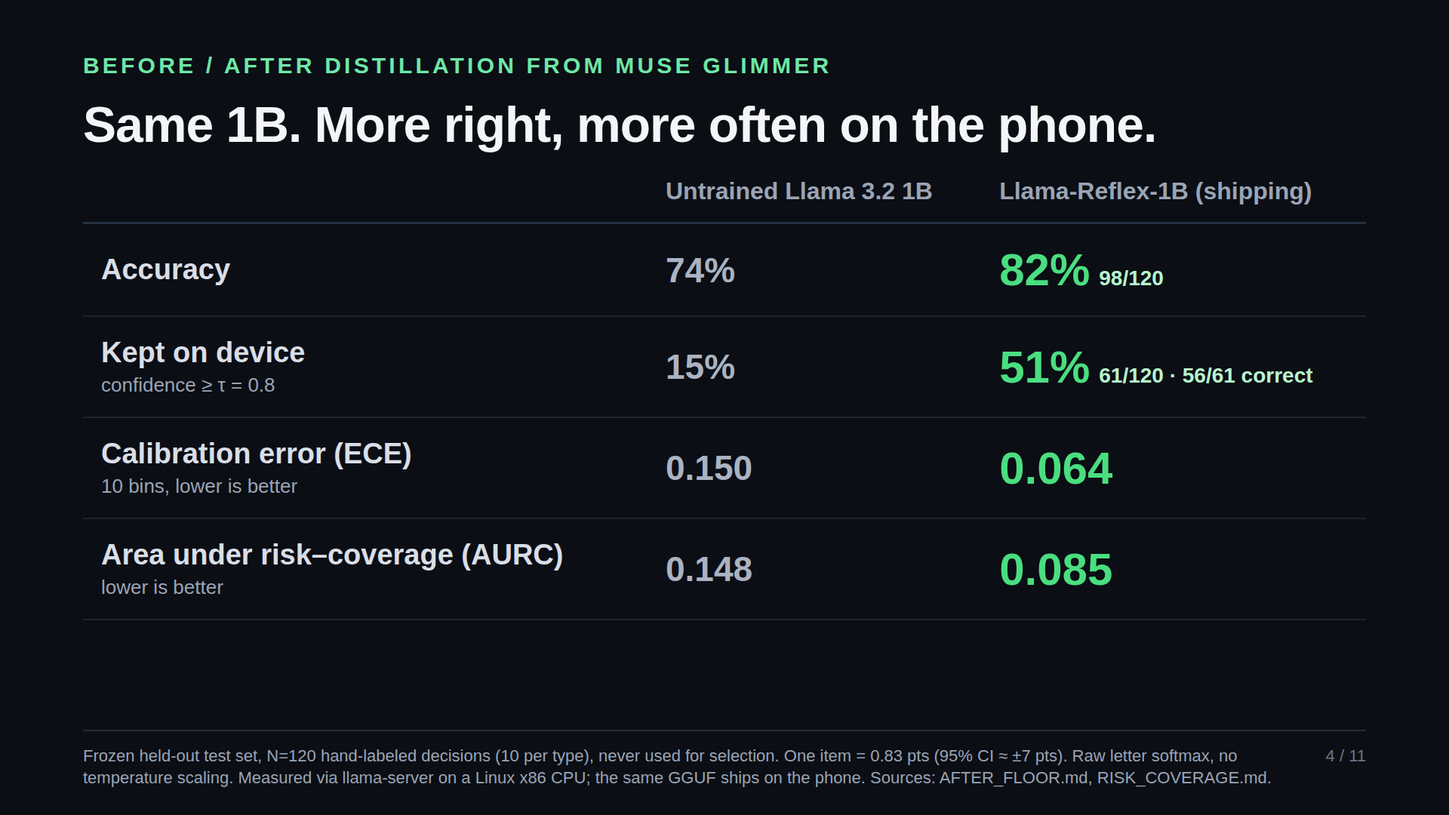
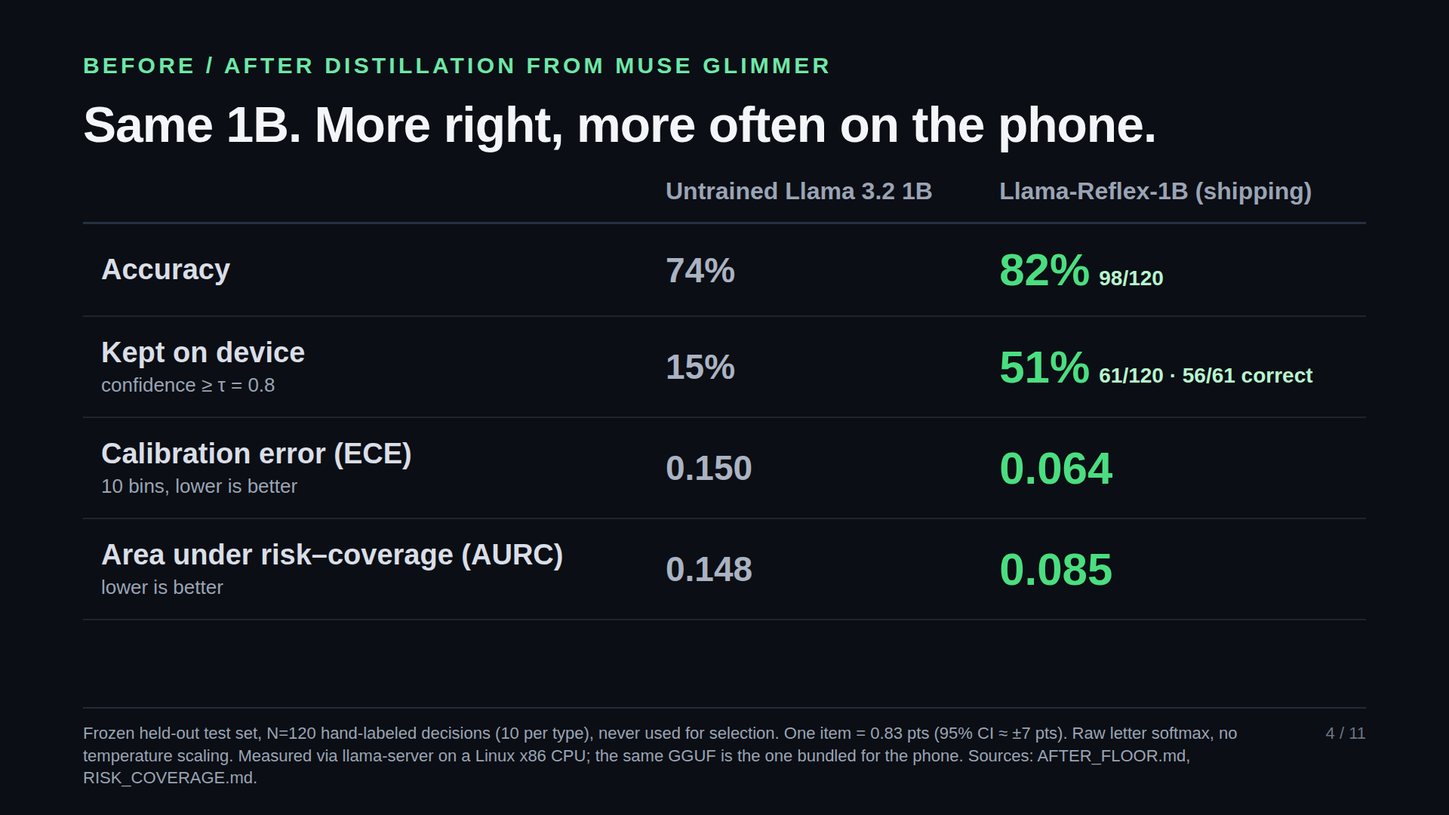
docs(demo): canonical cut and corrected claims
Update the 3:00 storyboard as the canonical cut, replace the Instagram skills beat with the optional Apple TV handoff, and correct skill, round 2, privacy, and handoff claims. Re-render all 11 slides at 1920x1080.

Changed region(s): [[0.0625, 0.8861, 0.875, 0.9778], [0.9062, 0.8861, 0.9375, 0.9472]]

diff --git a/docs/demo/slides.html b/docs/demo/slides.html
@@ -7,8 +7,8 @@
   Pocket Glimmer demo slides. Self-contained: inline CSS, no external fonts, no JS.
   11 slides, 1920x1080 each, <section id="slideN">. Cmd+P -> Save as PDF gives one page per slide.
   Every number here is sourced from README.md, docs/research/JUDGE_BRIEF.md, LEDGER.md §6,
-  eval/results/{AFTER_FLOOR,PER_TYPE_TAU090,RISK_COVERAGE,OOS_STRESS,REPRO_NOV4,PERM_AVG,QUANT_IDENTITY,SPARK_TEACHER}.md,
-  eval/skills/SKILL_PROBE.md, docs/SKILLS.md, docs/META_MULTIMODAL.md. PNG renders: docs/img/slide_01.png ... slide_11.png
+  eval/results/{AFTER_FLOOR,PER_TYPE_TAU090,RISK_COVERAGE,OOS_STRESS,REPRO_NOV4,PERM_AVG,QUANT_IDENTITY,SPARK_TEACHER,ROUND2}.md,
+  eval/skills/SKILL_PROBE.md, docs/SKILLS.md, docs/META_MULTIMODAL.md, docs/OPEN_WEIGHTS_SYSTEM2.md. PNG renders: docs/img/slide_01.png ... slide_11.png
   (regenerate with docs/demo/render_slides.sh).
 -->
 <style>
@@ -118,7 +118,7 @@ td.a small{font-size:28px;color:#b7f5cf;font-weight:600;margin-left:12px}
 <section id="slide1">
   <div class="kicker">Meta Global AI Hackathon 2026 · Build for Your World</div>
   <h1>Pocket Glimmer</h1>
-  <div class="sub">A 1B Meta model on an iPhone that knows when it doesn't know.</div>
+  <div class="sub">A 1B Meta model built for iPhone that knows when it doesn't know.</div>
   <div class="bars">
     <div class="taul">τ</div>
     <div class="tau"></div>
@@ -139,15 +139,16 @@ td.a small{font-size:28px;color:#b7f5cf;font-weight:600;margin-left:12px}
     <div class="col" style="flex:1.1;gap:34px">
       <p><span class="white" style="font-weight:800">Habib</span> · CS student, Hunter College · lives in the Bronx. The commute is on the subway, mostly with no signal.</p>
       <p><span class="green" style="font-weight:800">Memory stays on the phone</span> (on-device SQLite: facts, people, corrections).</p>
-      <p><span class="blue" style="font-weight:800">The cloud only ever sees masked text</span>, and only when the model is unsure.</p>
+      <p><span class="blue" style="font-weight:800">Typed escalations send masked text only</span>, and only when the model is unsure.</p>
     </div>
     <div class="card" style="flex:.9;border-color:#3b4a63">
-      <div style="font-size:26px;letter-spacing:.12em;text-transform:uppercase;font-weight:800;color:#7cb4ff;margin-bottom:18px">What left the phone (illustration)</div>
+      <div style="font-size:26px;letter-spacing:.12em;text-transform:uppercase;font-weight:800;color:#7cb4ff;margin-bottom:18px">What left the phone (typed escalation, illustration)</div>
       <div class="mono" style="font-size:31px;line-height:1.45;color:#e7ecf3">Plan my week around Professor <span class="orange">[PERSON_1]</span>'s CSCI 335 final and my calc midterm.</div>
       <div style="margin-top:24px;font-size:27px;line-height:1.4;color:#9aa4b5">Names from Contacts and memory, emails, phones, addresses and card numbers are masked first and restored on the phone. An escalation carries the masked request plus the masked memory lines retrieved for it. The app shows the exact text it sent.</div>
     </div>
   </div>
-  <div class="foot"><span>Escalation target: Muse Spark 1.3, Meta Model API, Standard mode only. Source: README "How it works".</span><span class="n">2 / 11</span></div>
+  <p class="muted" style="font-size:27px;margin-top:30px;line-height:1.4">Voice audio uploads to Muse Voice Transcribe before any on-device check. A permitted photo leaves as an image with EXIF/GPS stripped; the question text is masked, the pixels are not redacted. The photo sensitivity gate is heuristic, not a guarantee.</p>
+  <div class="foot"><span>Escalation target for typed text: Muse Spark 1.3, Meta Model API, Standard mode only. Source: README "How it works", docs/META_MULTIMODAL.md.</span><span class="n">2 / 11</span></div>
 </section>
 
 <!-- 3 -->
@@ -188,7 +189,7 @@ td.a small{font-size:28px;color:#b7f5cf;font-weight:600;margin-left:12px}
     <tr><td class="m">Calibration error (ECE)<small>10 bins, lower is better</small></td><td class="b">0.150</td><td class="a">0.064</td></tr>
     <tr><td class="m">Area under risk–coverage (AURC)<small>lower is better</small></td><td class="b">0.148</td><td class="a">0.085</td></tr>
   </table>
-  <div class="foot"><span>Frozen held-out test set, N=120 hand-labeled decisions (10 per type), never used for selection. One item = 0.83 pts (95% CI ≈ ±7 pts). Raw letter softmax, no temperature scaling. Measured via llama-server on a Linux x86 CPU; the same GGUF ships on the phone. Sources: AFTER_FLOOR.md, RISK_COVERAGE.md.</span><span class="n">4 / 11</span></div>
+  <div class="foot"><span>Frozen held-out test set, N=120 hand-labeled decisions (10 per type), never used for selection. One item = 0.83 pts (95% CI ≈ ±7 pts). Raw letter softmax, no temperature scaling. Measured via llama-server on a Linux x86 CPU; the same GGUF is the one bundled for the phone. Sources: AFTER_FLOOR.md, RISK_COVERAGE.md.</span><span class="n">4 / 11</span></div>
 </section>
 
 <!-- 5 -->
@@ -229,16 +230,16 @@ td.a small{font-size:28px;color:#b7f5cf;font-weight:600;margin-left:12px}
 <!-- 7 -->
 <section id="slide7">
   <div class="kicker">Built with Llama · every model is Meta's</div>
-  <h2 style="margin-bottom:24px">Four Meta models, four jobs.</h2>
+  <h2 style="margin-bottom:24px">Meta models, distinct jobs.</h2>
   <div class="models">
     <div class="card" style="border-color:#2f6b49"><div class="role green">Student · on the phone</div><h3>Llama 3.2 1B → Llama-Reflex-1B</h3><p>12 typed decisions, Q4_K_M GGUF (808 MB), llama.cpp + Metal. Llama 3.2 Community License.</p></div>
     <div class="card"><div class="role" style="color:#e9c46a">Teacher · local</div><h3>Muse Glimmer 30B</h3><p>Run locally (IQ2_M). Its option-letter probabilities are the soft labels (892 labels). Apache-2.0 open weights.</p></div>
-    <div class="card" style="border-color:#2c4f80"><div class="role blue">Escalation · cloud</div><h3>Muse Spark 1.3</h3><p>Only when the phone is unsure. Meta Model API, Standard mode only, behind a privacy scrubber.</p></div>
-    <div class="card"><div class="role" style="color:#aab3c2">Evaluated · rejected</div><h3>Muse Spark Open</h3><p>As teacher: labels matched gold 178/180, but the 1B it taught was overconfident (cal180 bound 13.7% vs 10.2%).</p></div>
+    <div class="card" style="border-color:#2c4f80"><div class="role blue">Escalation · cloud</div><h3>Muse Spark 1.3</h3><p>Default cloud escalation when the phone is unsure. Meta Model API, Standard mode only, behind a privacy scrubber.</p></div>
+    <div class="card" style="border-color:#3b4a63"><div class="role" style="color:#aab3c2">Optional · self-hosted cloud</div><h3>Muse Glimmer 30B on Modal</h3><p>H100, vLLM 0.33, bf16, scale-to-zero. Saved Swift smoke: 2.8 s cloud probe, two prompts. Cloud only, never on the phone; no current-liveness claim.</p></div>
   </div>
   <div class="lineage">Meta built Glimmer by logit-distilling Muse Spark (arXiv 2610.24628); we add one more hop, onto the phone:<br><span class="mono" style="font-size:31px;color:#6ee7a8">Muse Spark → Muse Glimmer 30B → Llama-Reflex-1B</span></div>
-  <div class="senses"><span class="blue" style="font-weight:800">System-2 senses (online only, same gate):</span> Muse Voice Transcribe for speech, Muse Spark 1.3 vision and SAM 3.1 for the camera. Each call passes the on-device sensitivity decision, masking and Standard mode. API calls verified live Nov 4; the iOS mic/camera UI is not yet verified on a device.</div>
-  <div class="foot"><span>Sources: README "Meta stack", JUDGE_BRIEF §3, SPARK_TEACHER.md, ARXIV_SCAN_NOV4.md, META_MULTIMODAL.md.</span><span class="n">7 / 11</span></div>
+  <div class="senses"><span class="blue" style="font-weight:800">System-2 senses (online only):</span> Muse Voice Transcribe for speech (audio uploads before any sensitivity check; the transcript then follows the typed-text path), Muse Spark 1.3 vision and SAM 3.1 for the camera (permitted photos leave as images; text is masked, pixels are not). Meta calls verified live Nov 4; the iOS mic/camera UI is unverified on a device.</div>
+  <div class="foot"><span>Sources: README "Meta stack", JUDGE_BRIEF §3, SPARK_TEACHER.md, ARXIV_SCAN_NOV4.md, META_MULTIMODAL.md, OPEN_WEIGHTS_SYSTEM2.md. Spark Open teacher rejected (13.7% vs 10.2% cal180 bound); Round 2 finished and rejected.</span><span class="n">7 / 11</span></div>
 </section>
 
 <!-- 8 -->
@@ -253,29 +254,29 @@ td.a small{font-size:28px;color:#b7f5cf;font-weight:600;margin-left:12px}
     <div class="card"><h3>Quant ladder</h3><p>f16 14.5%, Q8_0 13.9%, Q3_K_M 13.9%, Q2_K 30.4%. Nothing beat Q4_K_M on cal180.</p></div>
     <div class="card"><h3>Option-order averaging</h3><p>Ranks better, but under-confident: ECE 0.072–0.101 vs ≤0.056, at 2–3× latency. Did not ship.</p></div>
   </div>
-  <div class="card r2" style="margin-top:24px;padding:22px 30px;border:3px dashed #7cb4ff;background:#0f1a2b"><p style="font-size:34px"><span class="blue" style="font-weight:800">Round 2 (Nov 4): see eval/results/ROUND2.md</span> <span class="muted">· same cal180 gate; the shipping model changes only if a variant wins.</span></p></div>
-  <div class="foot"><span>All selection on the calibration split (N=180); bounds are LTT tightest, δ = 0.1. Box CPU, not iPhone. Sources: README gate 1, LEDGER §6 and §12, AFTER_FLOOR_EP2.md, AFTER_FLOOR_NV2.md, SPARK_TEACHER.md, QUANT_IDENTITY.md, PERM_AVG.md.</span><span class="n">8 / 11</span></div>
+  <div class="card r2" style="margin-top:24px;padding:22px 30px;border:3px dashed #7cb4ff;background:#0f1a2b"><p style="font-size:34px"><span class="blue" style="font-weight:800">Round 2 (Nov 4): finished and rejected.</span> <span class="muted">No variant cleared every gate run. ep1, Glimmer-only, still ships.</span></p></div>
+  <div class="foot"><span>All selection on the calibration split (N=180); bounds are LTT tightest, δ = 0.1. Box CPU, not iPhone. Sources: README gate 1, LEDGER §6 and §12, AFTER_FLOOR_EP2.md, AFTER_FLOOR_NV2.md, SPARK_TEACHER.md, QUANT_IDENTITY.md, PERM_AVG.md, ROUND2.md.</span><span class="n">8 / 11</span></div>
 </section>
 
 <!-- 9 -->
 <section id="slide9">
   <div class="kicker">Open-world actions · skills layer</div>
-  <h2 style="margin-bottom:34px">35 phone skills. One dynamic decision. No retraining.</h2>
+  <h2 style="margin-bottom:34px">36 phone skills. One dynamic decision. No retraining.</h2>
   <div class="row" style="gap:50px;align-items:flex-start">
     <div class="steps" style="flex:1.35">
       <div class="step"><div class="k">You say</div><div class="v mono" style="font-size:30px">"DM Sam on Instagram: congrats"</div></div>
-      <div class="step"><div class="k">Retrieve</div><div class="v">top 7 of 35 skills, on device (BM25 + trigram embedder)</div></div>
+      <div class="step"><div class="k">Retrieve</div><div class="v">top 7 of 36 skills, on device (BM25 + trigram embedder)</div></div>
       <div class="step"><div class="k">skillPick</div><div class="v">the same 1B, one forward pass, confidence vs τ → <span class="mono">instagram_dm</span></div></div>
       <div class="step"><div class="k">Confirm</div><div class="v">hard rule: every message/social skill asks first</div></div>
       <div class="step"><div class="k">Act</div><div class="v">opens Instagram's own DM link, message copied to clipboard</div></div>
     </div>
     <div class="col" style="flex:1;gap:22px">
-      <div class="card"><div class="big green" style="font-size:96px">23/25</div><p style="font-size:32px;margin-top:8px">right skill at argmax (25/25 in the retrieved top 7)</p></div>
-      <div class="card"><div class="big green" style="font-size:96px">13/14</div><p style="font-size:32px;margin-top:8px">correct when kept on device: 14/25 kept at τ = 0.90</p></div>
+      <div class="card"><div class="big green" style="font-size:96px">25/27</div><p style="font-size:32px;margin-top:8px">right skill at argmax (27/27 in the retrieved top 7)</p></div>
+      <div class="card"><div class="big green" style="font-size:96px">15/15</div><p style="font-size:32px;margin-top:8px">correct when kept on device: 15/27 kept at τ = 0.90</p></div>
     </div>
   </div>
-  <div class="warn" style="margin-top:30px;font-size:31px">Honest iOS limit: deep link + clipboard + confirm. No app can type or press Send inside Instagram; you paste and tap Send.</div>
-  <div class="foot"><span>N=25 smoke test, one author-written utterance per skill. The shipping model was never trained on skills. Not gold, not covered by the cal180 bound. Box CPU. Sources: SKILL_PROBE.md, SKILLS.md.</span><span class="n">9 / 11</span></div>
+  <div class="warn" style="margin-top:26px;font-size:28px">Honest iOS limit: deep link + clipboard + confirm. No app can type or press Send inside Instagram; you paste and tap Send. Shortcut skills only hand off; the app cannot confirm the Shortcut ran. Full iOS action behavior is unverified on a device.</div>
+  <div class="foot"><span>N=27 author-written smoke test (26 distinct skills; two Apple TV phrasings). The shipping model was never trained on skillPick, and skillPick has no cal180 certificate. Not gold, not covered by the cal180 bound. Box CPU. Sources: SKILL_PROBE.md, SKILLS.md.</span><span class="n">9 / 11</span></div>
 </section>
 
 <!-- 10 -->
@@ -293,13 +294,13 @@ td.a small{font-size:28px;color:#b7f5cf;font-weight:600;margin-left:12px}
     <div class="va">←</div>
     <div class="box"><b>3 · Verdicts back</b>teacher agreement written to the phone's telemetry; merged, deduped against every eval item</div>
   </div>
-  <div class="foot"><span>label_queue.py → verdicts.py → merge_round.py → existing LoRA/GGUF/cal180 chain. selftest.sh passes on the box with the shipping model as stand-in teacher. One distillation round has shipped so far.</span><span class="n">10 / 11</span></div>
+  <div class="foot"><span>label_queue.py → verdicts.py → merge_round.py → existing LoRA/GGUF/cal180 chain. selftest.sh passes on the box with the shipping model as stand-in teacher. One distillation round has shipped; round 2 was rejected at the gate.</span><span class="n">10 / 11</span></div>
 </section>
 
 <!-- 11 -->
 <section id="slide11">
   <div class="kicker">Pocket Glimmer · Built with Llama</div>
-  <div class="close">Open weights on the phone, Meta's cloud only when unsure. <span class="green">It's in my pocket.</span></div>
+  <div class="close">Open weights small enough for a phone. Meta's cloud only when it needs it. <span class="green">That's Pocket Glimmer.</span></div>
   <div class="url mono">github.com/hxbib/pocket-glimmer</div>
   <div class="foot"><span>https://github.com/hxbib/pocket-glimmer · Habib · Hunter College · Bronx</span><span class="n">11 / 11</span></div>
 </section>

diff --git a/docs/demo/slides/slide_07.html b/docs/demo/slides/slide_07.html
@@ -7,8 +7,8 @@
   Pocket Glimmer demo slides. Self-contained: inline CSS, no external fonts, no JS.
   11 slides, 1920x1080 each, <section id="slideN">. Cmd+P -> Save as PDF gives one page per slide.
   Every number here is sourced from README.md, docs/research/JUDGE_BRIEF.md, LEDGER.md §6,
-  eval/results/{AFTER_FLOOR,PER_TYPE_TAU090,RISK_COVERAGE,OOS_STRESS,REPRO_NOV4,PERM_AVG,QUANT_IDENTITY,SPARK_TEACHER}.md,
-  eval/skills/SKILL_PROBE.md, docs/SKILLS.md, docs/META_MULTIMODAL.md. PNG renders: docs/img/slide_01.png ... slide_11.png
+  eval/results/{AFTER_FLOOR,PER_TYPE_TAU090,RISK_COVERAGE,OOS_STRESS,REPRO_NOV4,PERM_AVG,QUANT_IDENTITY,SPARK_TEACHER,ROUND2}.md,
+  eval/skills/SKILL_PROBE.md, docs/SKILLS.md, docs/META_MULTIMODAL.md, docs/OPEN_WEIGHTS_SYSTEM2.md. PNG renders: docs/img/slide_01.png ... slide_11.png
   (regenerate with docs/demo/render_slides.sh).
 -->
 <style>
@@ -115,15 +115,15 @@ td.a small{font-size:28px;color:#b7f5cf;font-weight:600;margin-left:12px}
 <body style="margin:0;overflow:hidden">
 <section id="slide7">
   <div class="kicker">Built with Llama · every model is Meta's</div>
-  <h2 style="margin-bottom:24px">Four Meta models, four jobs.</h2>
+  <h2 style="margin-bottom:24px">Meta models, distinct jobs.</h2>
   <div class="models">
     <div class="card" style="border-color:#2f6b49"><div class="role green">Student · on the phone</div><h3>Llama 3.2 1B → Llama-Reflex-1B</h3><p>12 typed decisions, Q4_K_M GGUF (808 MB), llama.cpp + Metal. Llama 3.2 Community License.</p></div>
     <div class="card"><div class="role" style="color:#e9c46a">Teacher · local</div><h3>Muse Glimmer 30B</h3><p>Run locally (IQ2_M). Its option-letter probabilities are the soft labels (892 labels). Apache-2.0 open weights.</p></div>
-    <div class="card" style="border-color:#2c4f80"><div class="role blue">Escalation · cloud</div><h3>Muse Spark 1.3</h3><p>Only when the phone is unsure. Meta Model API, Standard mode only, behind a privacy scrubber.</p></div>
-    <div class="card"><div class="role" style="color:#aab3c2">Evaluated · rejected</div><h3>Muse Spark Open</h3><p>As teacher: labels matched gold 178/180, but the 1B it taught was overconfident (cal180 bound 13.7% vs 10.2%).</p></div>
+    <div class="card" style="border-color:#2c4f80"><div class="role blue">Escalation · cloud</div><h3>Muse Spark 1.3</h3><p>Default cloud escalation when the phone is unsure. Meta Model API, Standard mode only, behind a privacy scrubber.</p></div>
+    <div class="card" style="border-color:#3b4a63"><div class="role" style="color:#aab3c2">Optional · self-hosted cloud</div><h3>Muse Glimmer 30B on Modal</h3><p>H100, vLLM 0.33, bf16, scale-to-zero. Saved Swift smoke: 2.8 s cloud probe, two prompts. Cloud only, never on the phone; no current-liveness claim.</p></div>
   </div>
   <div class="lineage">Meta built Glimmer by logit-distilling Muse Spark (arXiv 2610.24628); we add one more hop, onto the phone:<br><span class="mono" style="font-size:31px;color:#6ee7a8">Muse Spark → Muse Glimmer 30B → Llama-Reflex-1B</span></div>
-  <div class="senses"><span class="blue" style="font-weight:800">System-2 senses (online only, same gate):</span> Muse Voice Transcribe for speech, Muse Spark 1.3 vision and SAM 3.1 for the camera. Each call passes the on-device sensitivity decision, masking and Standard mode. API calls verified live Nov 4; the iOS mic/camera UI is not yet verified on a device.</div>
-  <div class="foot"><span>Sources: README "Meta stack", JUDGE_BRIEF §3, SPARK_TEACHER.md, ARXIV_SCAN_NOV4.md, META_MULTIMODAL.md.</span><span class="n">7 / 11</span></div>
+  <div class="senses"><span class="blue" style="font-weight:800">System-2 senses (online only):</span> Muse Voice Transcribe for speech (audio uploads before any sensitivity check; the transcript then follows the typed-text path), Muse Spark 1.3 vision and SAM 3.1 for the camera (permitted photos leave as images; text is masked, pixels are not). Meta calls verified live Nov 4; the iOS mic/camera UI is unverified on a device.</div>
+  <div class="foot"><span>Sources: README "Meta stack", JUDGE_BRIEF §3, SPARK_TEACHER.md, ARXIV_SCAN_NOV4.md, META_MULTIMODAL.md, OPEN_WEIGHTS_SYSTEM2.md. Spark Open teacher rejected (13.7% vs 10.2% cal180 bound); Round 2 finished and rejected.</span><span class="n">7 / 11</span></div>
 </section>
 </body></html>

diff --git a/docs/demo/slides/slide_09.html b/docs/demo/slides/slide_09.html
@@ -7,8 +7,8 @@
   Pocket Glimmer demo slides. Self-contained: inline CSS, no external fonts, no JS.
   11 slides, 1920x1080 each, <section id="slideN">. Cmd+P -> Save as PDF gives one page per slide.
   Every number here is sourced from README.md, docs/research/JUDGE_BRIEF.md, LEDGER.md §6,
-  eval/results/{AFTER_FLOOR,PER_TYPE_TAU090,RISK_COVERAGE,OOS_STRESS,REPRO_NOV4,PERM_AVG,QUANT_IDENTITY,SPARK_TEACHER}.md,
-  eval/skills/SKILL_PROBE.md, docs/SKILLS.md, docs/META_MULTIMODAL.md. PNG renders: docs/img/slide_01.png ... slide_11.png
+  eval/results/{AFTER_FLOOR,PER_TYPE_TAU090,RISK_COVERAGE,OOS_STRESS,REPRO_NOV4,PERM_AVG,QUANT_IDENTITY,SPARK_TEACHER,ROUND2}.md,
+  eval/skills/SKILL_PROBE.md, docs/SKILLS.md, docs/META_MULTIMODAL.md, docs/OPEN_WEIGHTS_SYSTEM2.md. PNG renders: docs/img/slide_01.png ... slide_11.png
   (regenerate with docs/demo/render_slides.sh).
 -->
 <style>
@@ -115,21 +115,21 @@ td.a small{font-size:28px;color:#b7f5cf;font-weight:600;margin-left:12px}
 <body style="margin:0;overflow:hidden">
 <section id="slide9">
   <div class="kicker">Open-world actions · skills layer</div>
-  <h2 style="margin-bottom:34px">35 phone skills. One dynamic decision. No retraining.</h2>
+  <h2 style="margin-bottom:34px">36 phone skills. One dynamic decision. No retraining.</h2>
   <div class="row" style="gap:50px;align-items:flex-start">
     <div class="steps" style="flex:1.35">
       <div class="step"><div class="k">You say</div><div class="v mono" style="font-size:30px">"DM Sam on Instagram: congrats"</div></div>
-      <div class="step"><div class="k">Retrieve</div><div class="v">top 7 of 35 skills, on device (BM25 + trigram embedder)</div></div>
+      <div class="step"><div class="k">Retrieve</div><div class="v">top 7 of 36 skills, on device (BM25 + trigram embedder)</div></div>
       <div class="step"><div class="k">skillPick</div><div class="v">the same 1B, one forward pass, confidence vs τ → <span class="mono">instagram_dm</span></div></div>
       <div class="step"><div class="k">Confirm</div><div class="v">hard rule: every message/social skill asks first</div></div>
       <div class="step"><div class="k">Act</div><div class="v">opens Instagram's own DM link, message copied to clipboard</div></div>
     </div>
     <div class="col" style="flex:1;gap:22px">
-      <div class="card"><div class="big green" style="font-size:96px">23/25</div><p style="font-size:32px;margin-top:8px">right skill at argmax (25/25 in the retrieved top 7)</p></div>
-      <div class="card"><div class="big green" style="font-size:96px">13/14</div><p style="font-size:32px;margin-top:8px">correct when kept on device: 14/25 kept at τ = 0.90</p></div>
+      <div class="card"><div class="big green" style="font-size:96px">25/27</div><p style="font-size:32px;margin-top:8px">right skill at argmax (27/27 in the retrieved top 7)</p></div>
+      <div class="card"><div class="big green" style="font-size:96px">15/15</div><p style="font-size:32px;margin-top:8px">correct when kept on device: 15/27 kept at τ = 0.90</p></div>
     </div>
   </div>
-  <div class="warn" style="margin-top:30px;font-size:31px">Honest iOS limit: deep link + clipboard + confirm. No app can type or press Send inside Instagram; you paste and tap Send.</div>
-  <div class="foot"><span>N=25 smoke test, one author-written utterance per skill. The shipping model was never trained on skills. Not gold, not covered by the cal180 bound. Box CPU. Sources: SKILL_PROBE.md, SKILLS.md.</span><span class="n">9 / 11</span></div>
+  <div class="warn" style="margin-top:26px;font-size:28px">Honest iOS limit: deep link + clipboard + confirm. No app can type or press Send inside Instagram; you paste and tap Send. Shortcut skills only hand off; the app cannot confirm the Shortcut ran. Full iOS action behavior is unverified on a device.</div>
+  <div class="foot"><span>N=27 author-written smoke test (26 distinct skills; two Apple TV phrasings). The shipping model was never trained on skillPick, and skillPick has no cal180 certificate. Not gold, not covered by the cal180 bound. Box CPU. Sources: SKILL_PROBE.md, SKILLS.md.</span><span class="n">9 / 11</span></div>
 </section>
 </body></html>

diff --git a/docs/demo/slides/slide_02.html b/docs/demo/slides/slide_02.html
@@ -7,8 +7,8 @@
   Pocket Glimmer demo slides. Self-contained: inline CSS, no external fonts, no JS.
   11 slides, 1920x1080 each, <section id="slideN">. Cmd+P -> Save as PDF gives one page per slide.
   Every number here is sourced from README.md, docs/research/JUDGE_BRIEF.md, LEDGER.md §6,
-  eval/results/{AFTER_FLOOR,PER_TYPE_TAU090,RISK_COVERAGE,OOS_STRESS,REPRO_NOV4,PERM_AVG,QUANT_IDENTITY,SPARK_TEACHER}.md,
-  eval/skills/SKILL_PROBE.md, docs/SKILLS.md, docs/META_MULTIMODAL.md. PNG renders: docs/img/slide_01.png ... slide_11.png
+  eval/results/{AFTER_FLOOR,PER_TYPE_TAU090,RISK_COVERAGE,OOS_STRESS,REPRO_NOV4,PERM_AVG,QUANT_IDENTITY,SPARK_TEACHER,ROUND2}.md,
+  eval/skills/SKILL_PROBE.md, docs/SKILLS.md, docs/META_MULTIMODAL.md, docs/OPEN_WEIGHTS_SYSTEM2.md. PNG renders: docs/img/slide_01.png ... slide_11.png
   (regenerate with docs/demo/render_slides.sh).
 -->
 <style>
@@ -120,14 +120,15 @@ td.a small{font-size:28px;color:#b7f5cf;font-weight:600;margin-left:12px}
     <div class="col" style="flex:1.1;gap:34px">
       <p><span class="white" style="font-weight:800">Habib</span> · CS student, Hunter College · lives in the Bronx. The commute is on the subway, mostly with no signal.</p>
       <p><span class="green" style="font-weight:800">Memory stays on the phone</span> (on-device SQLite: facts, people, corrections).</p>
-      <p><span class="blue" style="font-weight:800">The cloud only ever sees masked text</span>, and only when the model is unsure.</p>
+      <p><span class="blue" style="font-weight:800">Typed escalations send masked text only</span>, and only when the model is unsure.</p>
     </div>
     <div class="card" style="flex:.9;border-color:#3b4a63">
-      <div style="font-size:26px;letter-spacing:.12em;text-transform:uppercase;font-weight:800;color:#7cb4ff;margin-bottom:18px">What left the phone (illustration)</div>
+      <div style="font-size:26px;letter-spacing:.12em;text-transform:uppercase;font-weight:800;color:#7cb4ff;margin-bottom:18px">What left the phone (typed escalation, illustration)</div>
       <div class="mono" style="font-size:31px;line-height:1.45;color:#e7ecf3">Plan my week around Professor <span class="orange">[PERSON_1]</span>'s CSCI 335 final and my calc midterm.</div>
       <div style="margin-top:24px;font-size:27px;line-height:1.4;color:#9aa4b5">Names from Contacts and memory, emails, phones, addresses and card numbers are masked first and restored on the phone. An escalation carries the masked request plus the masked memory lines retrieved for it. The app shows the exact text it sent.</div>
     </div>
   </div>
-  <div class="foot"><span>Escalation target: Muse Spark 1.3, Meta Model API, Standard mode only. Source: README "How it works".</span><span class="n">2 / 11</span></div>
+  <p class="muted" style="font-size:27px;margin-top:30px;line-height:1.4">Voice audio uploads to Muse Voice Transcribe before any on-device check. A permitted photo leaves as an image with EXIF/GPS stripped; the question text is masked, the pixels are not redacted. The photo sensitivity gate is heuristic, not a guarantee.</p>
+  <div class="foot"><span>Escalation target for typed text: Muse Spark 1.3, Meta Model API, Standard mode only. Source: README "How it works", docs/META_MULTIMODAL.md.</span><span class="n">2 / 11</span></div>
 </section>
 </body></html>

diff --git a/docs/demo/slides/slide_08.html b/docs/demo/slides/slide_08.html
@@ -7,8 +7,8 @@
   Pocket Glimmer demo slides. Self-contained: inline CSS, no external fonts, no JS.
   11 slides, 1920x1080 each, <section id="slideN">. Cmd+P -> Save as PDF gives one page per slide.
   Every number here is sourced from README.md, docs/research/JUDGE_BRIEF.md, LEDGER.md §6,
-  eval/results/{AFTER_FLOOR,PER_TYPE_TAU090,RISK_COVERAGE,OOS_STRESS,REPRO_NOV4,PERM_AVG,QUANT_IDENTITY,SPARK_TEACHER}.md,
-  eval/skills/SKILL_PROBE.md, docs/SKILLS.md, docs/META_MULTIMODAL.md. PNG renders: docs/img/slide_01.png ... slide_11.png
+  eval/results/{AFTER_FLOOR,PER_TYPE_TAU090,RISK_COVERAGE,OOS_STRESS,REPRO_NOV4,PERM_AVG,QUANT_IDENTITY,SPARK_TEACHER,ROUND2}.md,
+  eval/skills/SKILL_PROBE.md, docs/SKILLS.md, docs/META_MULTIMODAL.md, docs/OPEN_WEIGHTS_SYSTEM2.md. PNG renders: docs/img/slide_01.png ... slide_11.png
   (regenerate with docs/demo/render_slides.sh).
 -->
 <style>
@@ -124,7 +124,7 @@ td.a small{font-size:28px;color:#b7f5cf;font-weight:600;margin-left:12px}
     <div class="card"><h3>Quant ladder</h3><p>f16 14.5%, Q8_0 13.9%, Q3_K_M 13.9%, Q2_K 30.4%. Nothing beat Q4_K_M on cal180.</p></div>
     <div class="card"><h3>Option-order averaging</h3><p>Ranks better, but under-confident: ECE 0.072–0.101 vs ≤0.056, at 2–3× latency. Did not ship.</p></div>
   </div>
-  <div class="card r2" style="margin-top:24px;padding:22px 30px;border:3px dashed #7cb4ff;background:#0f1a2b"><p style="font-size:34px"><span class="blue" style="font-weight:800">Round 2 (Nov 4): see eval/results/ROUND2.md</span> <span class="muted">· same cal180 gate; the shipping model changes only if a variant wins.</span></p></div>
-  <div class="foot"><span>All selection on the calibration split (N=180); bounds are LTT tightest, δ = 0.1. Box CPU, not iPhone. Sources: README gate 1, LEDGER §6 and §12, AFTER_FLOOR_EP2.md, AFTER_FLOOR_NV2.md, SPARK_TEACHER.md, QUANT_IDENTITY.md, PERM_AVG.md.</span><span class="n">8 / 11</span></div>
+  <div class="card r2" style="margin-top:24px;padding:22px 30px;border:3px dashed #7cb4ff;background:#0f1a2b"><p style="font-size:34px"><span class="blue" style="font-weight:800">Round 2 (Nov 4): finished and rejected.</span> <span class="muted">No variant cleared every gate run. ep1, Glimmer-only, still ships.</span></p></div>
+  <div class="foot"><span>All selection on the calibration split (N=180); bounds are LTT tightest, δ = 0.1. Box CPU, not iPhone. Sources: README gate 1, LEDGER §6 and §12, AFTER_FLOOR_EP2.md, AFTER_FLOOR_NV2.md, SPARK_TEACHER.md, QUANT_IDENTITY.md, PERM_AVG.md, ROUND2.md.</span><span class="n">8 / 11</span></div>
 </section>
 </body></html>

diff --git a/docs/demo/slides/slide_04.html b/docs/demo/slides/slide_04.html
@@ -7,8 +7,8 @@
   Pocket Glimmer demo slides. Self-contained: inline CSS, no external fonts, no JS.
   11 slides, 1920x1080 each, <section id="slideN">. Cmd+P -> Save as PDF gives one page per slide.
   Every number here is sourced from README.md, docs/research/JUDGE_BRIEF.md, LEDGER.md §6,
-  eval/results/{AFTER_FLOOR,PER_TYPE_TAU090,RISK_COVERAGE,OOS_STRESS,REPRO_NOV4,PERM_AVG,QUANT_IDENTITY,SPARK_TEACHER}.md,
-  eval/skills/SKILL_PROBE.md, docs/SKILLS.md, docs/META_MULTIMODAL.md. PNG renders: docs/img/slide_01.png ... slide_11.png
+  eval/results/{AFTER_FLOOR,PER_TYPE_TAU090,RISK_COVERAGE,OOS_STRESS,REPRO_NOV4,PERM_AVG,QUANT_IDENTITY,SPARK_TEACHER,ROUND2}.md,
+  eval/skills/SKILL_PROBE.md, docs/SKILLS.md, docs/META_MULTIMODAL.md, docs/OPEN_WEIGHTS_SYSTEM2.md. PNG renders: docs/img/slide_01.png ... slide_11.png
   (regenerate with docs/demo/render_slides.sh).
 -->
 <style>
@@ -123,6 +123,6 @@ td.a small{font-size:28px;color:#b7f5cf;font-weight:600;margin-left:12px}
     <tr><td class="m">Calibration error (ECE)<small>10 bins, lower is better</small></td><td class="b">0.150</td><td class="a">0.064</td></tr>
     <tr><td class="m">Area under risk–coverage (AURC)<small>lower is better</small></td><td class="b">0.148</td><td class="a">0.085</td></tr>
   </table>
-  <div class="foot"><span>Frozen held-out test set, N=120 hand-labeled decisions (10 per type), never used for selection. One item = 0.83 pts (95% CI ≈ ±7 pts). Raw letter softmax, no temperature scaling. Measured via llama-server on a Linux x86 CPU; the same GGUF ships on the phone. Sources: AFTER_FLOOR.md, RISK_COVERAGE.md.</span><span class="n">4 / 11</span></div>
+  <div class="foot"><span>Frozen held-out test set, N=120 hand-labeled decisions (10 per type), never used for selection. One item = 0.83 pts (95% CI ≈ ±7 pts). Raw letter softmax, no temperature scaling. Measured via llama-server on a Linux x86 CPU; the same GGUF is the one bundled for the phone. Sources: AFTER_FLOOR.md, RISK_COVERAGE.md.</span><span class="n">4 / 11</span></div>
 </section>
 </body></html>

diff --git a/docs/demo/slides/slide_10.html b/docs/demo/slides/slide_10.html
@@ -7,8 +7,8 @@
   Pocket Glimmer demo slides. Self-contained: inline CSS, no external fonts, no JS.
   11 slides, 1920x1080 each, <section id="slideN">. Cmd+P -> Save as PDF gives one page per slide.
   Every number here is sourced from README.md, docs/research/JUDGE_BRIEF.md, LEDGER.md §6,
-  eval/results/{AFTER_FLOOR,PER_TYPE_TAU090,RISK_COVERAGE,OOS_STRESS,REPRO_NOV4,PERM_AVG,QUANT_IDENTITY,SPARK_TEACHER}.md,
-  eval/skills/SKILL_PROBE.md, docs/SKILLS.md, docs/META_MULTIMODAL.md. PNG renders: docs/img/slide_01.png ... slide_11.png
+  eval/results/{AFTER_FLOOR,PER_TYPE_TAU090,RISK_COVERAGE,OOS_STRESS,REPRO_NOV4,PERM_AVG,QUANT_IDENTITY,SPARK_TEACHER,ROUND2}.md,
+  eval/skills/SKILL_PROBE.md, docs/SKILLS.md, docs/META_MULTIMODAL.md, docs/OPEN_WEIGHTS_SYSTEM2.md. PNG renders: docs/img/slide_01.png ... slide_11.png
   (regenerate with docs/demo/render_slides.sh).
 -->
 <style>
@@ -127,6 +127,6 @@ td.a small{font-size:28px;color:#b7f5cf;font-weight:600;margin-left:12px}
     <div class="va">←</div>
     <div class="box"><b>3 · Verdicts back</b>teacher agreement written to the phone's telemetry; merged, deduped against every eval item</div>
   </div>
-  <div class="foot"><span>label_queue.py → verdicts.py → merge_round.py → existing LoRA/GGUF/cal180 chain. selftest.sh passes on the box with the shipping model as stand-in teacher. One distillation round has shipped so far.</span><span class="n">10 / 11</span></div>
+  <div class="foot"><span>label_queue.py → verdicts.py → merge_round.py → existing LoRA/GGUF/cal180 chain. selftest.sh passes on the box with the shipping model as stand-in teacher. One distillation round has shipped; round 2 was rejected at the gate.</span><span class="n">10 / 11</span></div>
 </section>
 </body></html>

diff --git a/docs/demo/slides/slide_11.html b/docs/demo/slides/slide_11.html
@@ -7,8 +7,8 @@
   Pocket Glimmer demo slides. Self-contained: inline CSS, no external fonts, no JS.
   11 slides, 1920x1080 each, <section id="slideN">. Cmd+P -> Save as PDF gives one page per slide.
   Every number here is sourced from README.md, docs/research/JUDGE_BRIEF.md, LEDGER.md §6,
-  eval/results/{AFTER_FLOOR,PER_TYPE_TAU090,RISK_COVERAGE,OOS_STRESS,REPRO_NOV4,PERM_AVG,QUANT_IDENTITY,SPARK_TEACHER}.md,
-  eval/skills/SKILL_PROBE.md, docs/SKILLS.md, docs/META_MULTIMODAL.md. PNG renders: docs/img/slide_01.png ... slide_11.png
+  eval/results/{AFTER_FLOOR,PER_TYPE_TAU090,RISK_COVERAGE,OOS_STRESS,REPRO_NOV4,PERM_AVG,QUANT_IDENTITY,SPARK_TEACHER,ROUND2}.md,
+  eval/skills/SKILL_PROBE.md, docs/SKILLS.md, docs/META_MULTIMODAL.md, docs/OPEN_WEIGHTS_SYSTEM2.md. PNG renders: docs/img/slide_01.png ... slide_11.png
   (regenerate with docs/demo/render_slides.sh).
 -->
 <style>
@@ -115,7 +115,7 @@ td.a small{font-size:28px;color:#b7f5cf;font-weight:600;margin-left:12px}
 <body style="margin:0;overflow:hidden">
 <section id="slide11">
   <div class="kicker">Pocket Glimmer · Built with Llama</div>
-  <div class="close">Open weights on the phone, Meta's cloud only when unsure. <span class="green">It's in my pocket.</span></div>
+  <div class="close">Open weights small enough for a phone. Meta's cloud only when it needs it. <span class="green">That's Pocket Glimmer.</span></div>
   <div class="url mono">github.com/hxbib/pocket-glimmer</div>
   <div class="foot"><span>https://github.com/hxbib/pocket-glimmer · Habib · Hunter College · Bronx</span><span class="n">11 / 11</span></div>
 </section>

diff --git a/docs/demo/slides/slide_01.html b/docs/demo/slides/slide_01.html
@@ -7,8 +7,8 @@
   Pocket Glimmer demo slides. Self-contained: inline CSS, no external fonts, no JS.
   11 slides, 1920x1080 each, <section id="slideN">. Cmd+P -> Save as PDF gives one page per slide.
   Every number here is sourced from README.md, docs/research/JUDGE_BRIEF.md, LEDGER.md §6,
-  eval/results/{AFTER_FLOOR,PER_TYPE_TAU090,RISK_COVERAGE,OOS_STRESS,REPRO_NOV4,PERM_AVG,QUANT_IDENTITY,SPARK_TEACHER}.md,
-  eval/skills/SKILL_PROBE.md, docs/SKILLS.md, docs/META_MULTIMODAL.md. PNG renders: docs/img/slide_01.png ... slide_11.png
+  eval/results/{AFTER_FLOOR,PER_TYPE_TAU090,RISK_COVERAGE,OOS_STRESS,REPRO_NOV4,PERM_AVG,QUANT_IDENTITY,SPARK_TEACHER,ROUND2}.md,
+  eval/skills/SKILL_PROBE.md, docs/SKILLS.md, docs/META_MULTIMODAL.md, docs/OPEN_WEIGHTS_SYSTEM2.md. PNG renders: docs/img/slide_01.png ... slide_11.png
   (regenerate with docs/demo/render_slides.sh).
 -->
 <style>
@@ -116,7 +116,7 @@ td.a small{font-size:28px;color:#b7f5cf;font-weight:600;margin-left:12px}
 <section id="slide1">
   <div class="kicker">Meta Global AI Hackathon 2026 · Build for Your World</div>
   <h1>Pocket Glimmer</h1>
-  <div class="sub">A 1B Meta model on an iPhone that knows when it doesn't know.</div>
+  <div class="sub">A 1B Meta model built for iPhone that knows when it doesn't know.</div>
   <div class="bars">
     <div class="taul">τ</div>
     <div class="tau"></div>

diff --git a/docs/demo/slides/slide_03.html b/docs/demo/slides/slide_03.html
@@ -7,8 +7,8 @@
   Pocket Glimmer demo slides. Self-contained: inline CSS, no external fonts, no JS.
   11 slides, 1920x1080 each, <section id="slideN">. Cmd+P -> Save as PDF gives one page per slide.
   Every number here is sourced from README.md, docs/research/JUDGE_BRIEF.md, LEDGER.md §6,
-  eval/results/{AFTER_FLOOR,PER_TYPE_TAU090,RISK_COVERAGE,OOS_STRESS,REPRO_NOV4,PERM_AVG,QUANT_IDENTITY,SPARK_TEACHER}.md,
-  eval/skills/SKILL_PROBE.md, docs/SKILLS.md, docs/META_MULTIMODAL.md. PNG renders: docs/img/slide_01.png ... slide_11.png
+  eval/results/{AFTER_FLOOR,PER_TYPE_TAU090,RISK_COVERAGE,OOS_STRESS,REPRO_NOV4,PERM_AVG,QUANT_IDENTITY,SPARK_TEACHER,ROUND2}.md,
+  eval/skills/SKILL_PROBE.md, docs/SKILLS.md, docs/META_MULTIMODAL.md, docs/OPEN_WEIGHTS_SYSTEM2.md. PNG renders: docs/img/slide_01.png ... slide_11.png
   (regenerate with docs/demo/render_slides.sh).
 -->
 <style>

diff --git a/docs/demo/slides/slide_05.html b/docs/demo/slides/slide_05.html
@@ -7,8 +7,8 @@
   Pocket Glimmer demo slides. Self-contained: inline CSS, no external fonts, no JS.
   11 slides, 1920x1080 each, <section id="slideN">. Cmd+P -> Save as PDF gives one page per slide.
   Every number here is sourced from README.md, docs/research/JUDGE_BRIEF.md, LEDGER.md §6,
-  eval/results/{AFTER_FLOOR,PER_TYPE_TAU090,RISK_COVERAGE,OOS_STRESS,REPRO_NOV4,PERM_AVG,QUANT_IDENTITY,SPARK_TEACHER}.md,
-  eval/skills/SKILL_PROBE.md, docs/SKILLS.md, docs/META_MULTIMODAL.md. PNG renders: docs/img/slide_01.png ... slide_11.png
+  eval/results/{AFTER_FLOOR,PER_TYPE_TAU090,RISK_COVERAGE,OOS_STRESS,REPRO_NOV4,PERM_AVG,QUANT_IDENTITY,SPARK_TEACHER,ROUND2}.md,
+  eval/skills/SKILL_PROBE.md, docs/SKILLS.md, docs/META_MULTIMODAL.md, docs/OPEN_WEIGHTS_SYSTEM2.md. PNG renders: docs/img/slide_01.png ... slide_11.png
   (regenerate with docs/demo/render_slides.sh).
 -->
 <style>

diff --git a/docs/demo/slides/slide_06.html b/docs/demo/slides/slide_06.html
@@ -7,8 +7,8 @@
   Pocket Glimmer demo slides. Self-contained: inline CSS, no external fonts, no JS.
   11 slides, 1920x1080 each, <section id="slideN">. Cmd+P -> Save as PDF gives one page per slide.
   Every number here is sourced from README.md, docs/research/JUDGE_BRIEF.md, LEDGER.md §6,
-  eval/results/{AFTER_FLOOR,PER_TYPE_TAU090,RISK_COVERAGE,OOS_STRESS,REPRO_NOV4,PERM_AVG,QUANT_IDENTITY,SPARK_TEACHER}.md,
-  eval/skills/SKILL_PROBE.md, docs/SKILLS.md, docs/META_MULTIMODAL.md. PNG renders: docs/img/slide_01.png ... slide_11.png
+  eval/results/{AFTER_FLOOR,PER_TYPE_TAU090,RISK_COVERAGE,OOS_STRESS,REPRO_NOV4,PERM_AVG,QUANT_IDENTITY,SPARK_TEACHER,ROUND2}.md,
+  eval/skills/SKILL_PROBE.md, docs/SKILLS.md, docs/META_MULTIMODAL.md, docs/OPEN_WEIGHTS_SYSTEM2.md. PNG renders: docs/img/slide_01.png ... slide_11.png
   (regenerate with docs/demo/render_slides.sh).
 -->
 <style>
